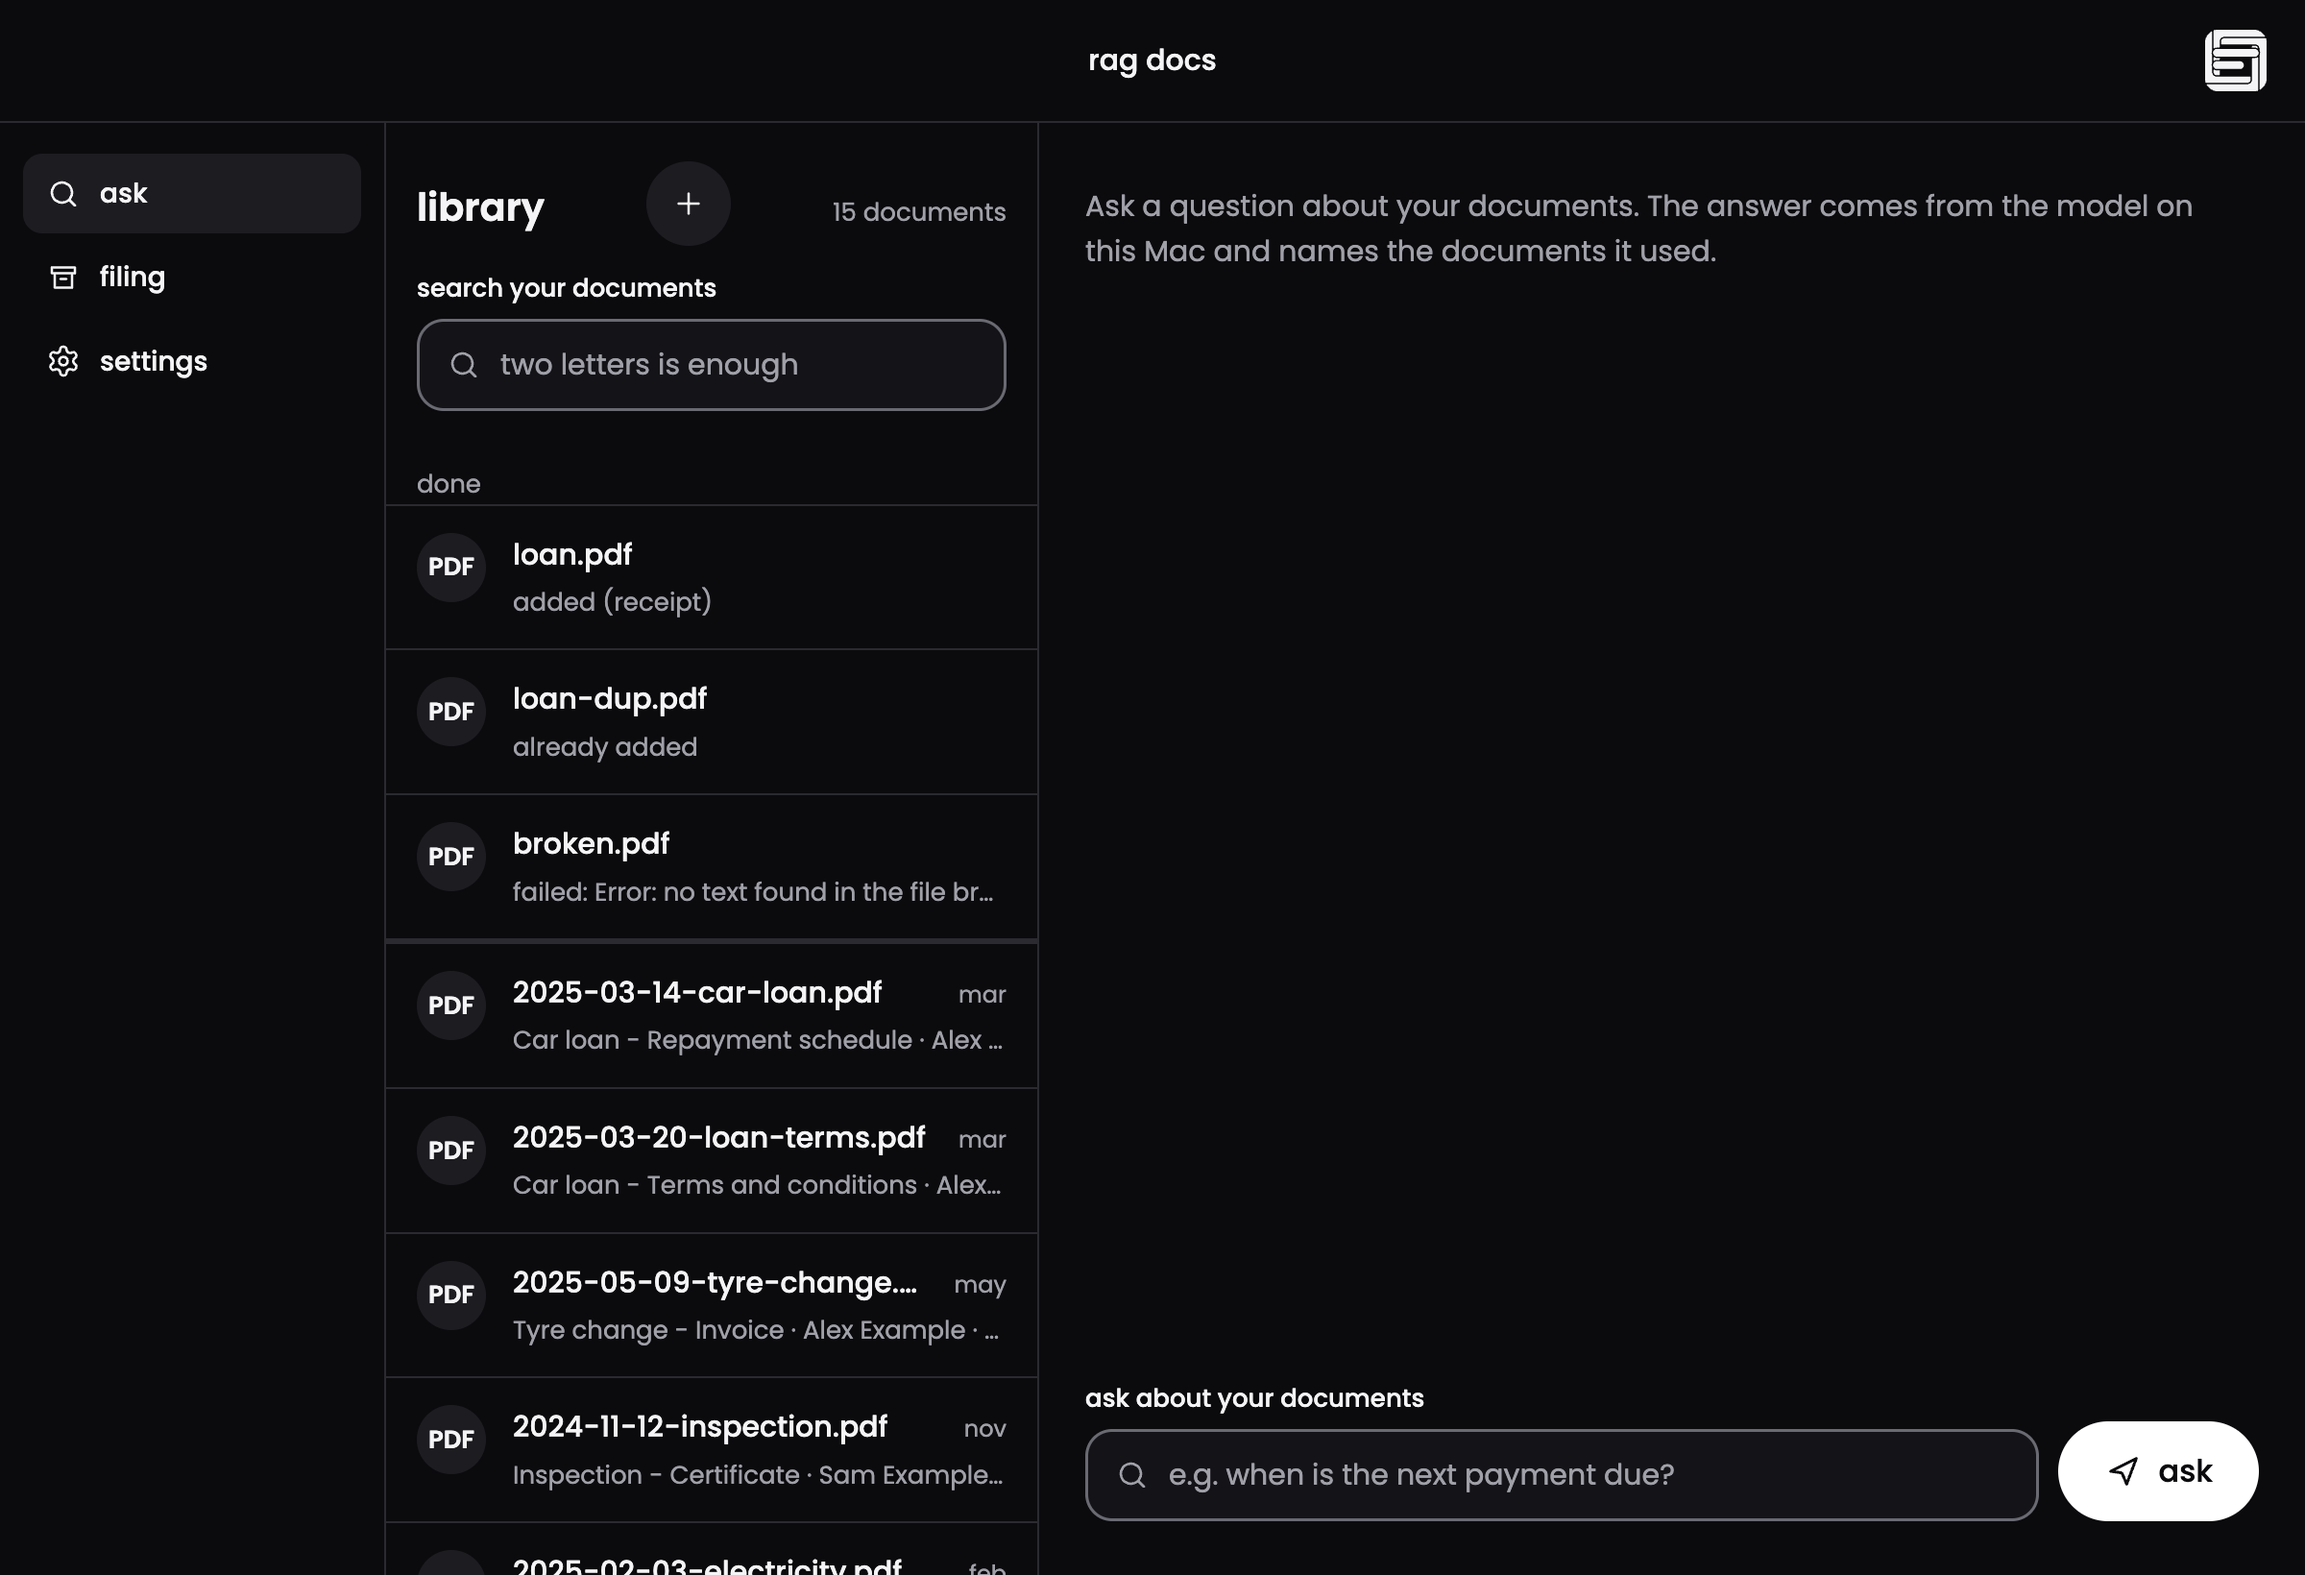
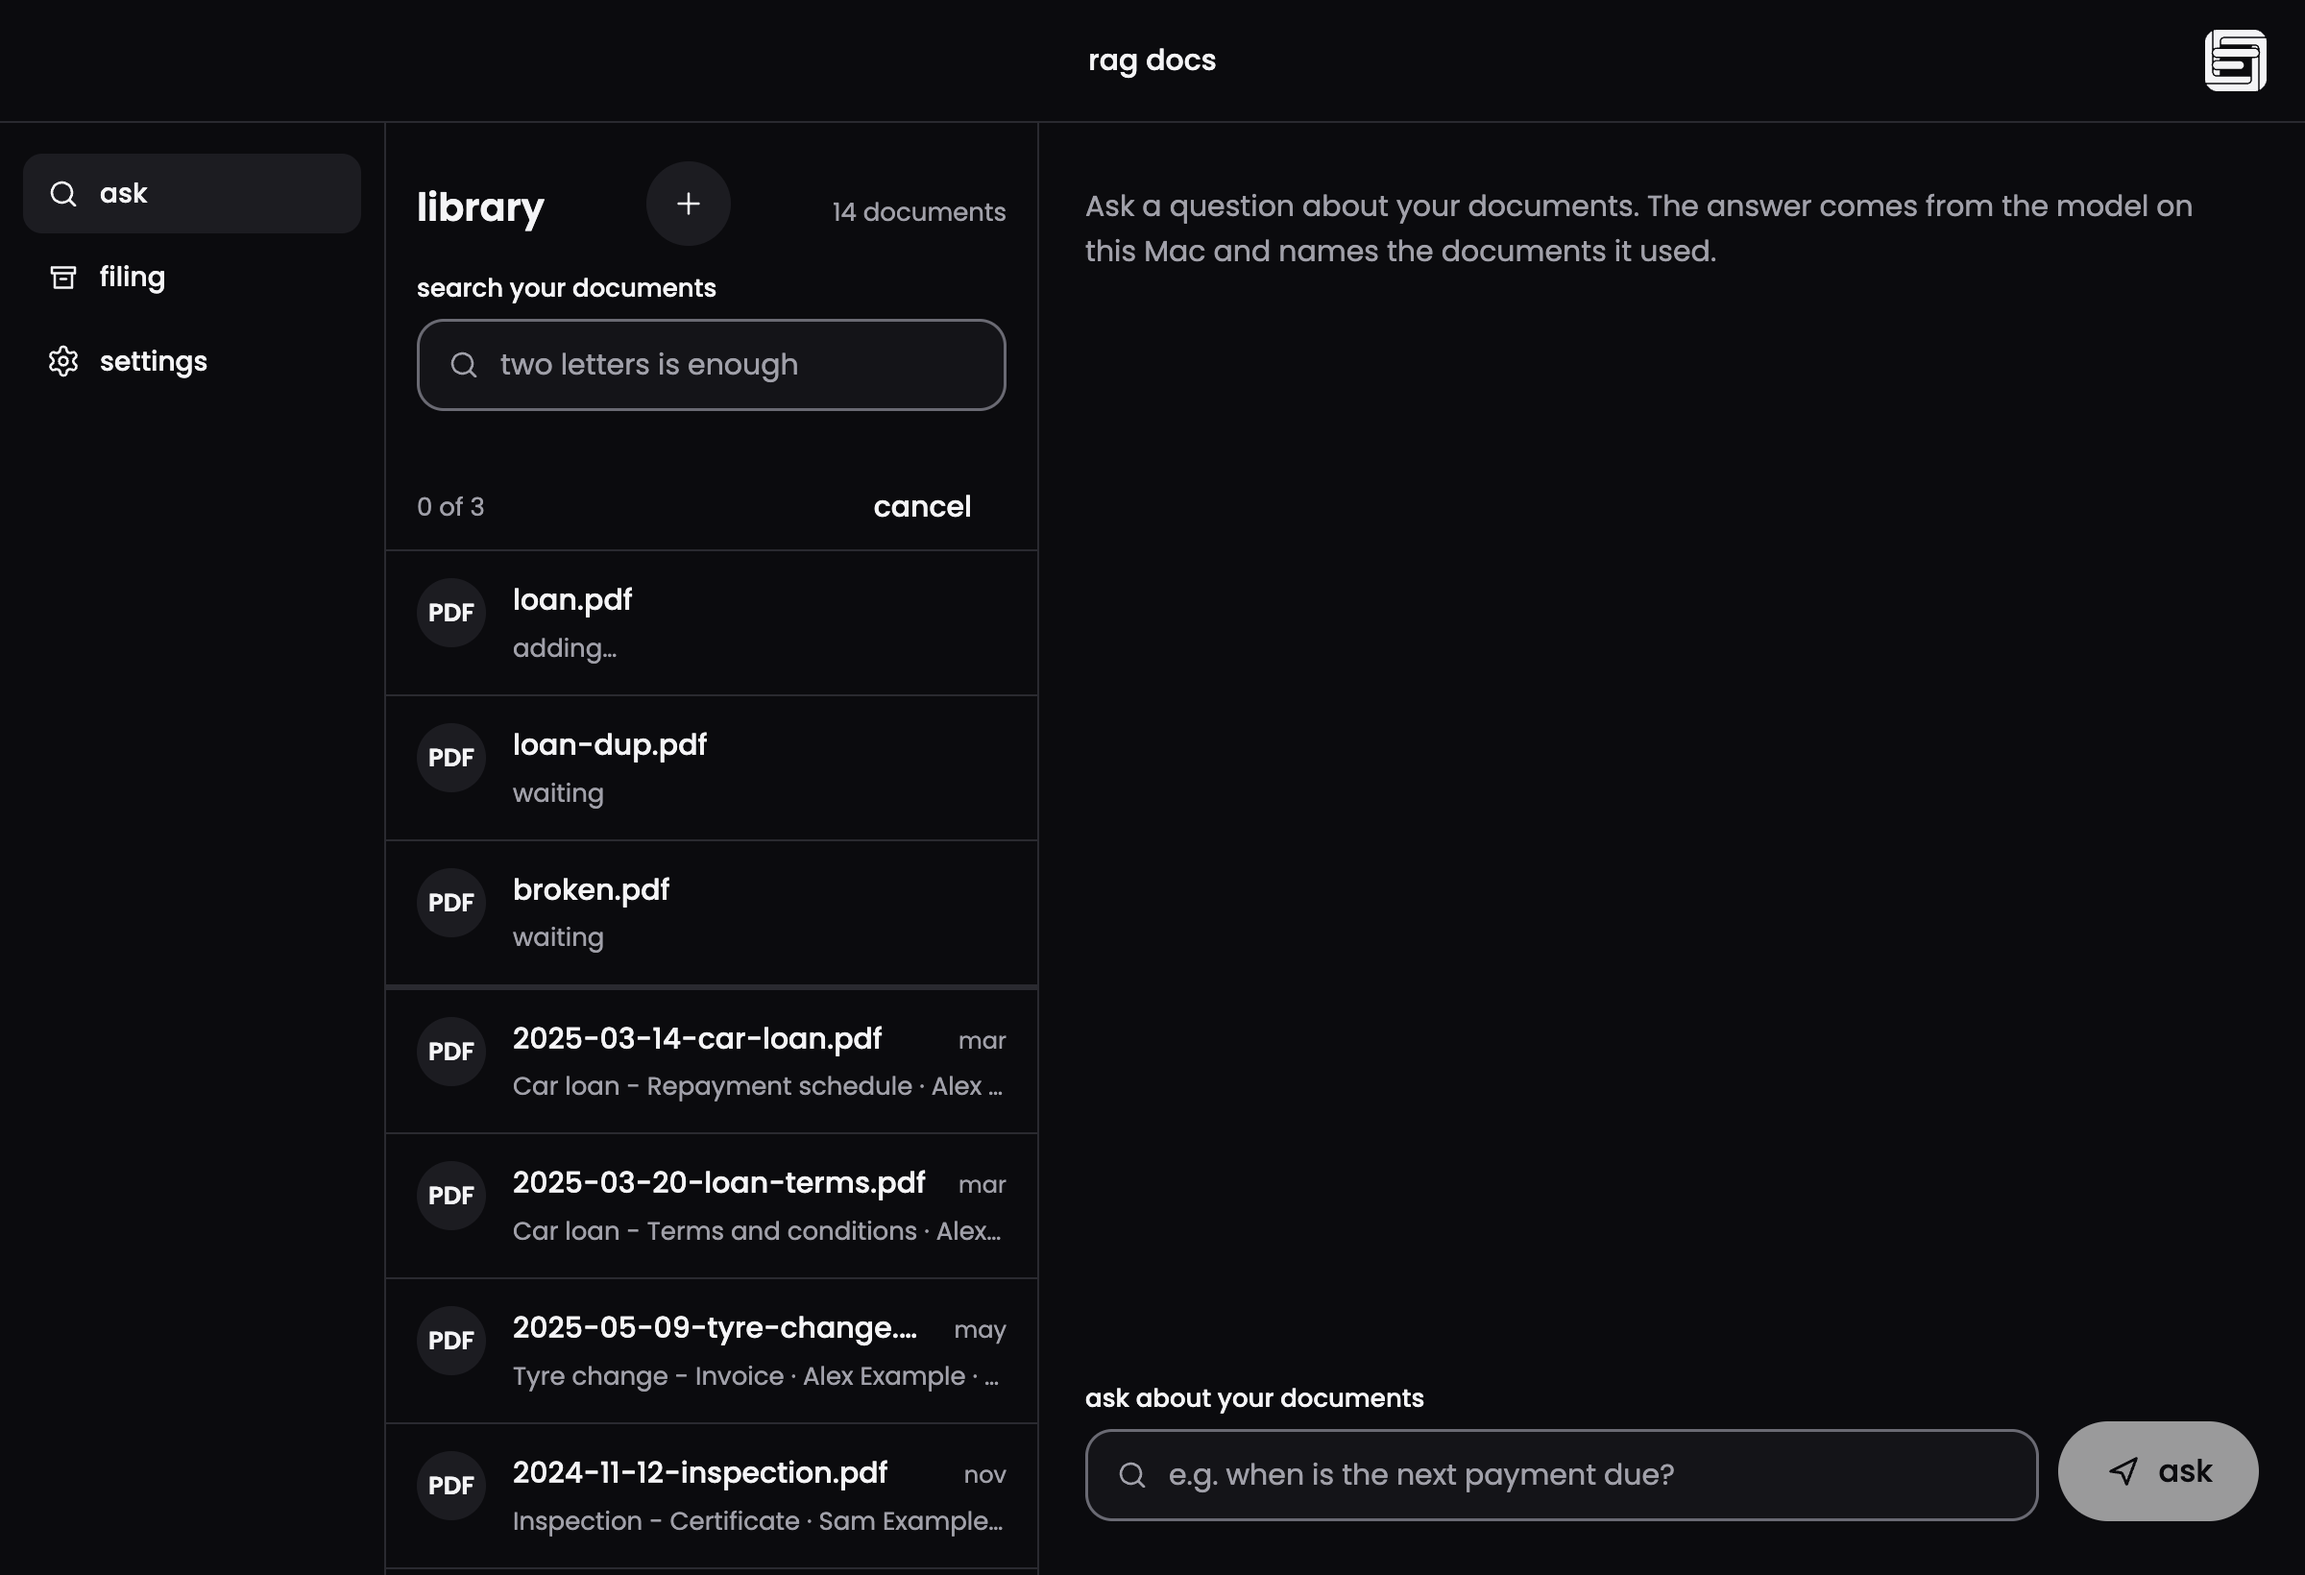
shots: capture add-running mid-run, without a settle before the title check (finished by CTO)
The title check went through drive(), which settles first and so waited for
the whole add queue. Mid-run shots now check the title and the adding row
and cancel button without settling, then cancel the queue after the capture.

diff --git a/desktop/src/main.ts b/desktop/src/main.ts
@@ -436,6 +436,11 @@ async function drive(browser: BrowserWindow, steps: string): Promise<unknown> {
 	return browser.webContents.executeJavaScript(`(async () => { ${DRIVER}; const d = window.__drive; await d.settle(); ${steps} })()`, true);
 }
 
+/** Like drive, without the settle first: for checks on a page that is still busy on purpose. */
+async function driveNow(browser: BrowserWindow, steps: string): Promise<unknown> {
+	return browser.webContents.executeJavaScript(`(async () => { ${DRIVER}; const d = window.__drive; ${steps} })()`, true);
+}
+
 function freshFakeState(): string {
 	const dir = mkdtempSync(join(tmpdir(), 'rag-docs-fake-'));
 	process.env.FAKE_STATE_FILE = join(dir, 'state.json');
@@ -677,15 +682,16 @@ const ADD_DONE = `await d.click('#addDocsButton');`;
 /** Capture the queue WHILE it runs: one row must say adding… and cancel must be offered.
  * A settle would wait for the last file and show a finished queue, so the steps poll
  * instead, and throw rather than shoot an empty or finished panel. */
+const ADD_RUNNING_CHECK = `const addPanel = document.querySelector('#addPanel');
+  if (!addPanel || addPanel.hidden || !addPanel.textContent.includes('adding…')) throw new Error('add-running: no row is adding… at capture time');
+  if (!document.querySelector('#addCancel') || document.querySelector('#addCancel')?.hidden) throw new Error('add-running: the cancel button is not visible');`;
 const ADD_RUNNING = `d.find('#addDocsButton').click();
   for (let i = 0; i < 60; i += 1) {
     const panel = document.querySelector('#addPanel');
     if (panel && !panel.hidden && panel.textContent.includes('adding…') && !document.querySelector('#addCancel')?.hidden) break;
     await new Promise((r) => setTimeout(r, 50));
   }
-  const addPanel = document.querySelector('#addPanel');
-  if (!addPanel || addPanel.hidden || !addPanel.textContent.includes('adding…')) throw new Error('add-running: no row is adding… at capture time');
-  if (!document.querySelector('#addCancel') || document.querySelector('#addCancel')?.hidden) throw new Error('add-running: the cancel button is not visible');`;
+  ${ADD_RUNNING_CHECK}`;
 /** The over-limit original: pill and size must be on the row, and the row in view. */
 const OVER_LIMIT = `const big = d.row('#libraryRows', 'big-scan.pdf');
   if (big.querySelector('.pill')?.textContent !== 'not indexed: over 50 MB') throw new Error('over-limit: the pill is missing');
@@ -744,12 +750,17 @@ async function runShots(): Promise<void> {
   if (overRow.top < 0 || overRow.bottom > innerHeight + 1) throw new Error('the scrolled row is not in view');`);
 				}
 				// Every shot that starts at the top of the page has to show the window title.
+				// A shot with a slow add is taken mid-run: no settle here (it would wait for the
+				// whole queue), and the steps' own checks are repeated right before the capture.
 				if (!shot.scrollTo && !shot.scrollToRow) {
-					const visible = await drive(browser, `const t = d.find('#appTitle').getBoundingClientRect(); return t.top >= 0 && t.bottom <= innerHeight;`);
+					const check = `const t = d.find('#appTitle').getBoundingClientRect(); return t.top >= 0 && t.bottom <= innerHeight;`;
+					const visible = shot.delayMs ? await driveNow(browser, `${ADD_RUNNING_CHECK} ${check}`) : await drive(browser, check);
 					if (visible !== true) throw new Error(`${shot.name}-${mode}: the window title is not in view`);
 				}
 				const image = await browser.webContents.capturePage();
 				writeFileSync(join(out, `${shot.name}-${mode}.png`), image.toPNG());
+				// Stop a queue that is still running so it can't touch the next shot.
+				if (shot.delayMs) await driveNow(browser, `d.find('#addCancel').click(); await d.settle();`);
 				rmSync(dir, { recursive: true, force: true });
 			}
 		}
